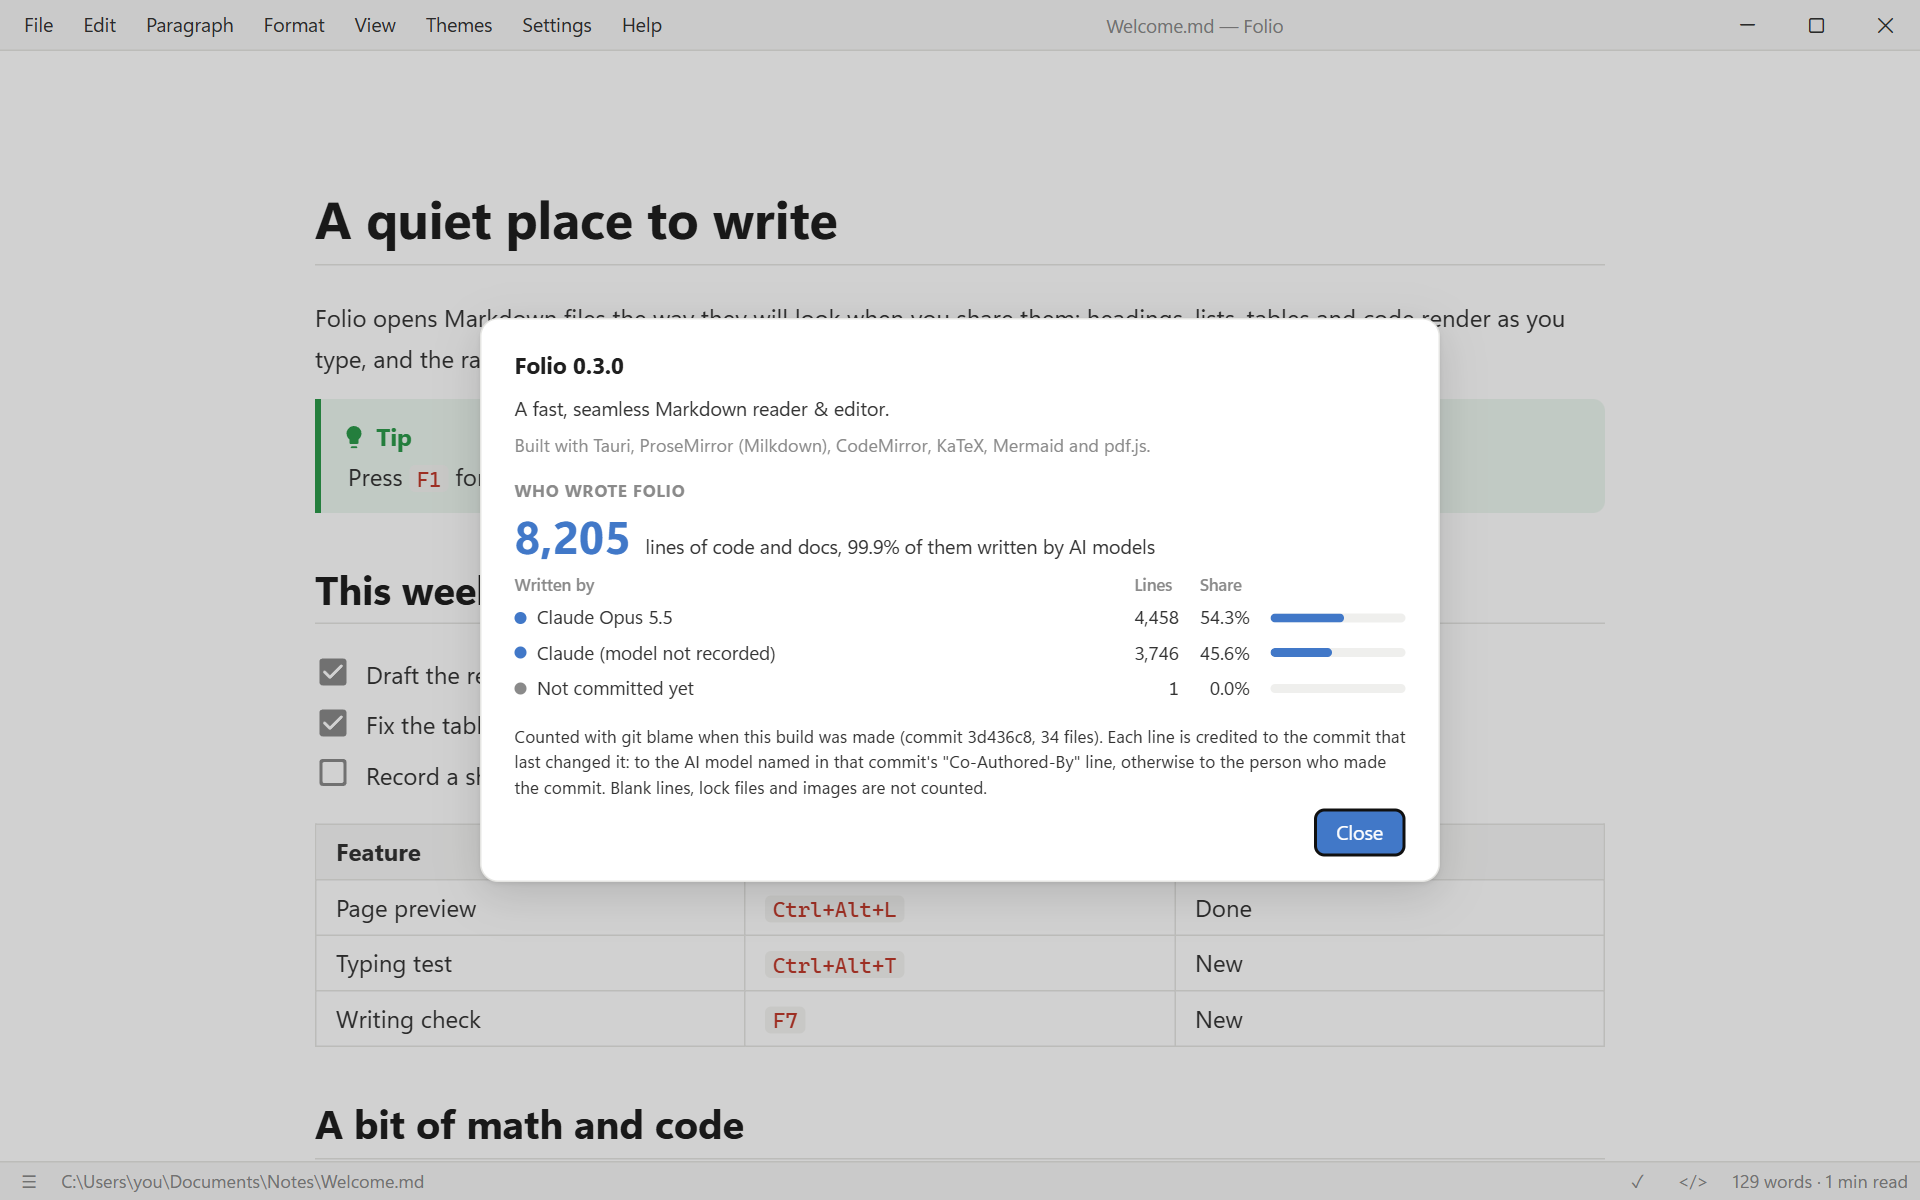
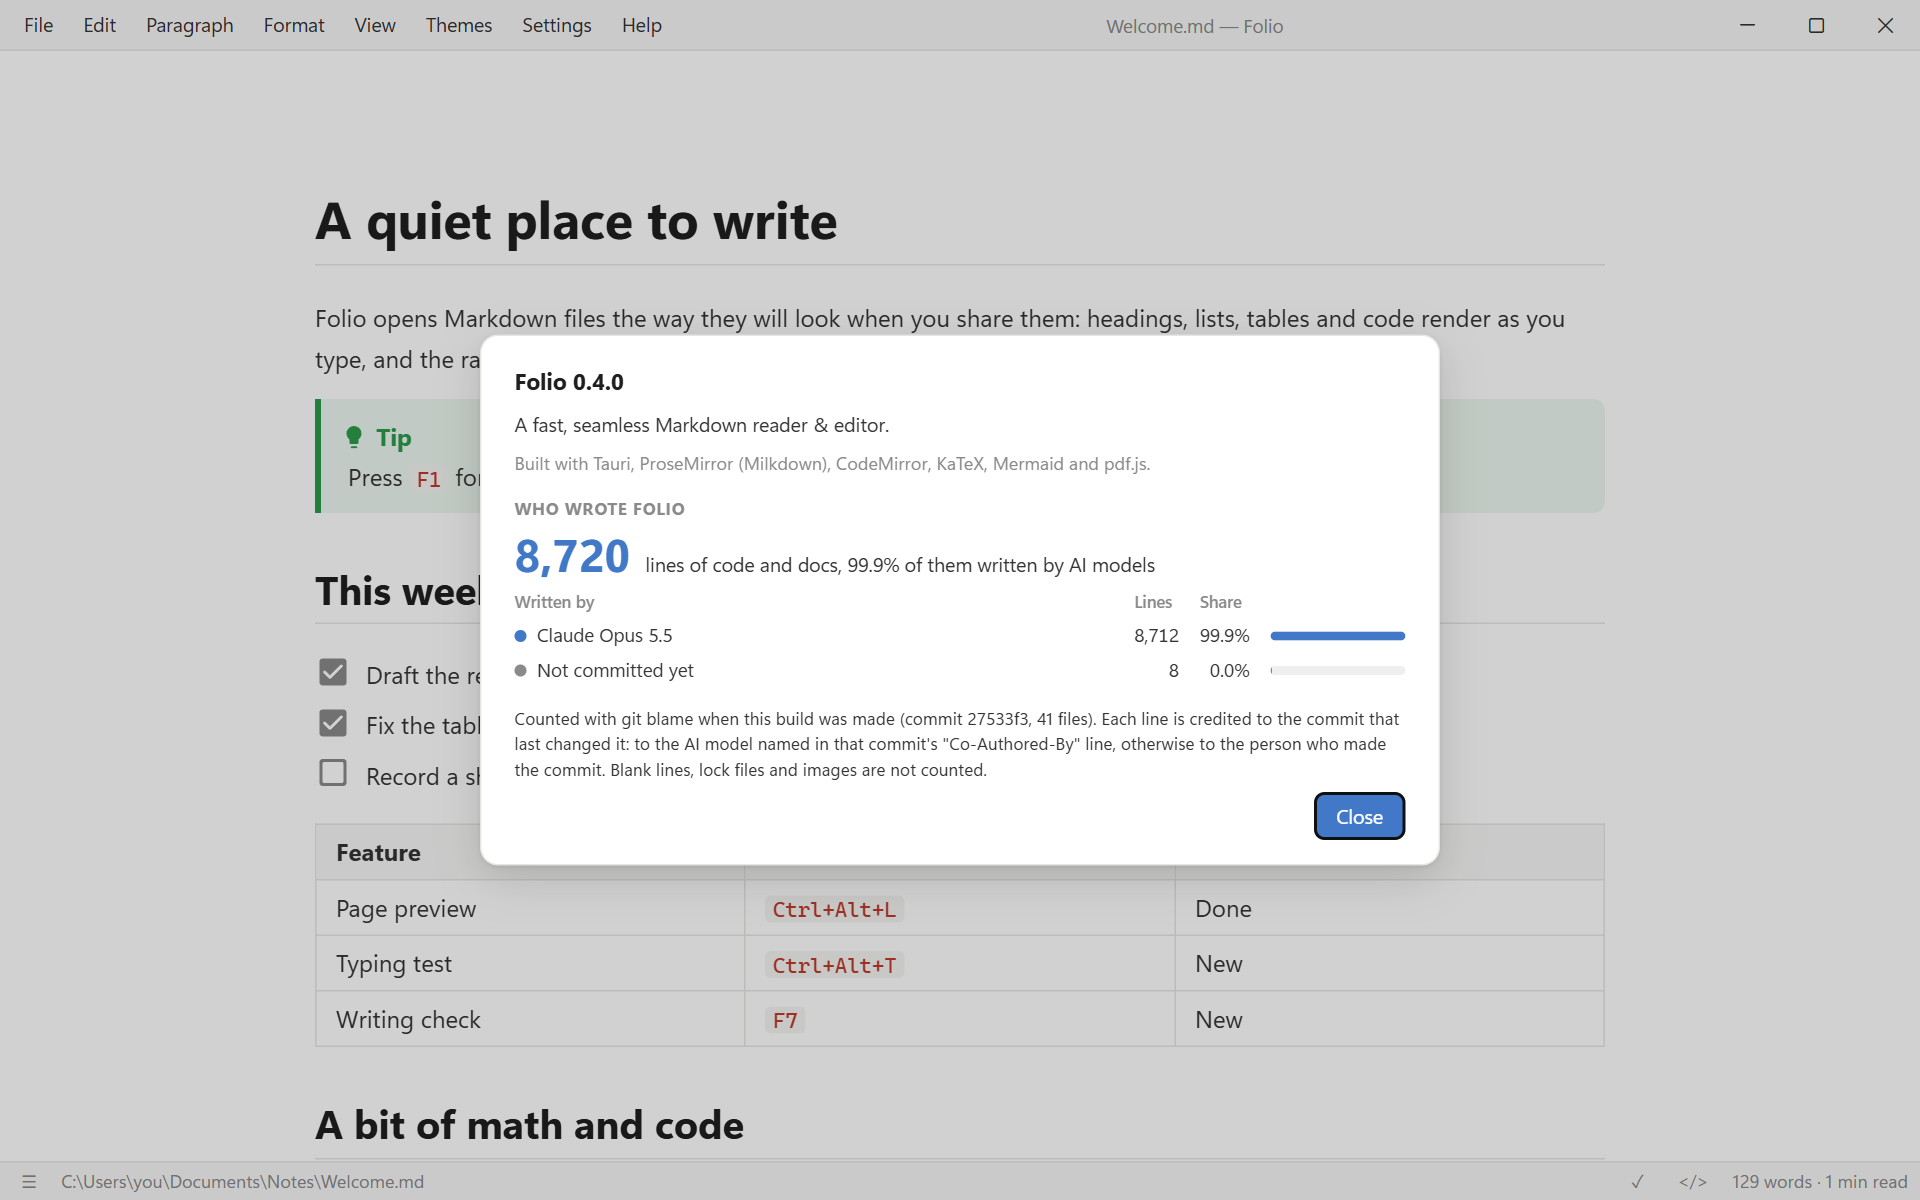
Release 0.4.0: spelling & grammar check, typing test, per-model About

Changed region(s): [[0.25, 0.2467, 0.75, 0.74]]

diff --git a/AGENTS.md b/AGENTS.md
@@ -67,8 +67,9 @@ These decide most design questions:
 - New UI must work in all four themes (use the CSS variables) and at small window sizes.
 - Update `README.md` and `src/guide.md` when you add or change user-facing features.
   Regenerate screenshots with `npm run screenshots` when the UI changes visibly.
-- Bump the version in `package.json`, `src-tauri/tauri.conf.json` and `src-tauri/Cargo.toml`
-  (+ `Cargo.lock`) only for a release.
+- Bump the version in `package.json` (+ `package-lock.json`), `src-tauri/tauri.conf.json` and
+  `src-tauri/Cargo.toml` (+ `Cargo.lock`) only for a release. Pushing a `vX.Y.Z` tag runs
+  `.github/workflows/release.yml`, which builds Windows and Linux files into a draft release.
 
 ## Commits and credit
 

diff --git a/README.md b/README.md
@@ -103,6 +103,9 @@ Outputs:
 | Linux | `release/linux/Folio-*.x86_64.rpm` | RHEL/Fedora/openSUSE: `sudo dnf install ./Folio-*.rpm` |
 | Linux | `release/linux/folio` | raw binary, needs `libwebkit2gtk-4.1` installed |
 
+Releases are built by GitHub Actions: pushing a tag like `v0.4.0` runs
+`.github/workflows/release.yml`, which builds all of the files above and attaches them to a draft release.
+
 ### Linux prerequisites (one time)
 
 From Windows, the Linux build runs inside WSL (default distro `Ubuntu`; pass `-Distro <name>` to
